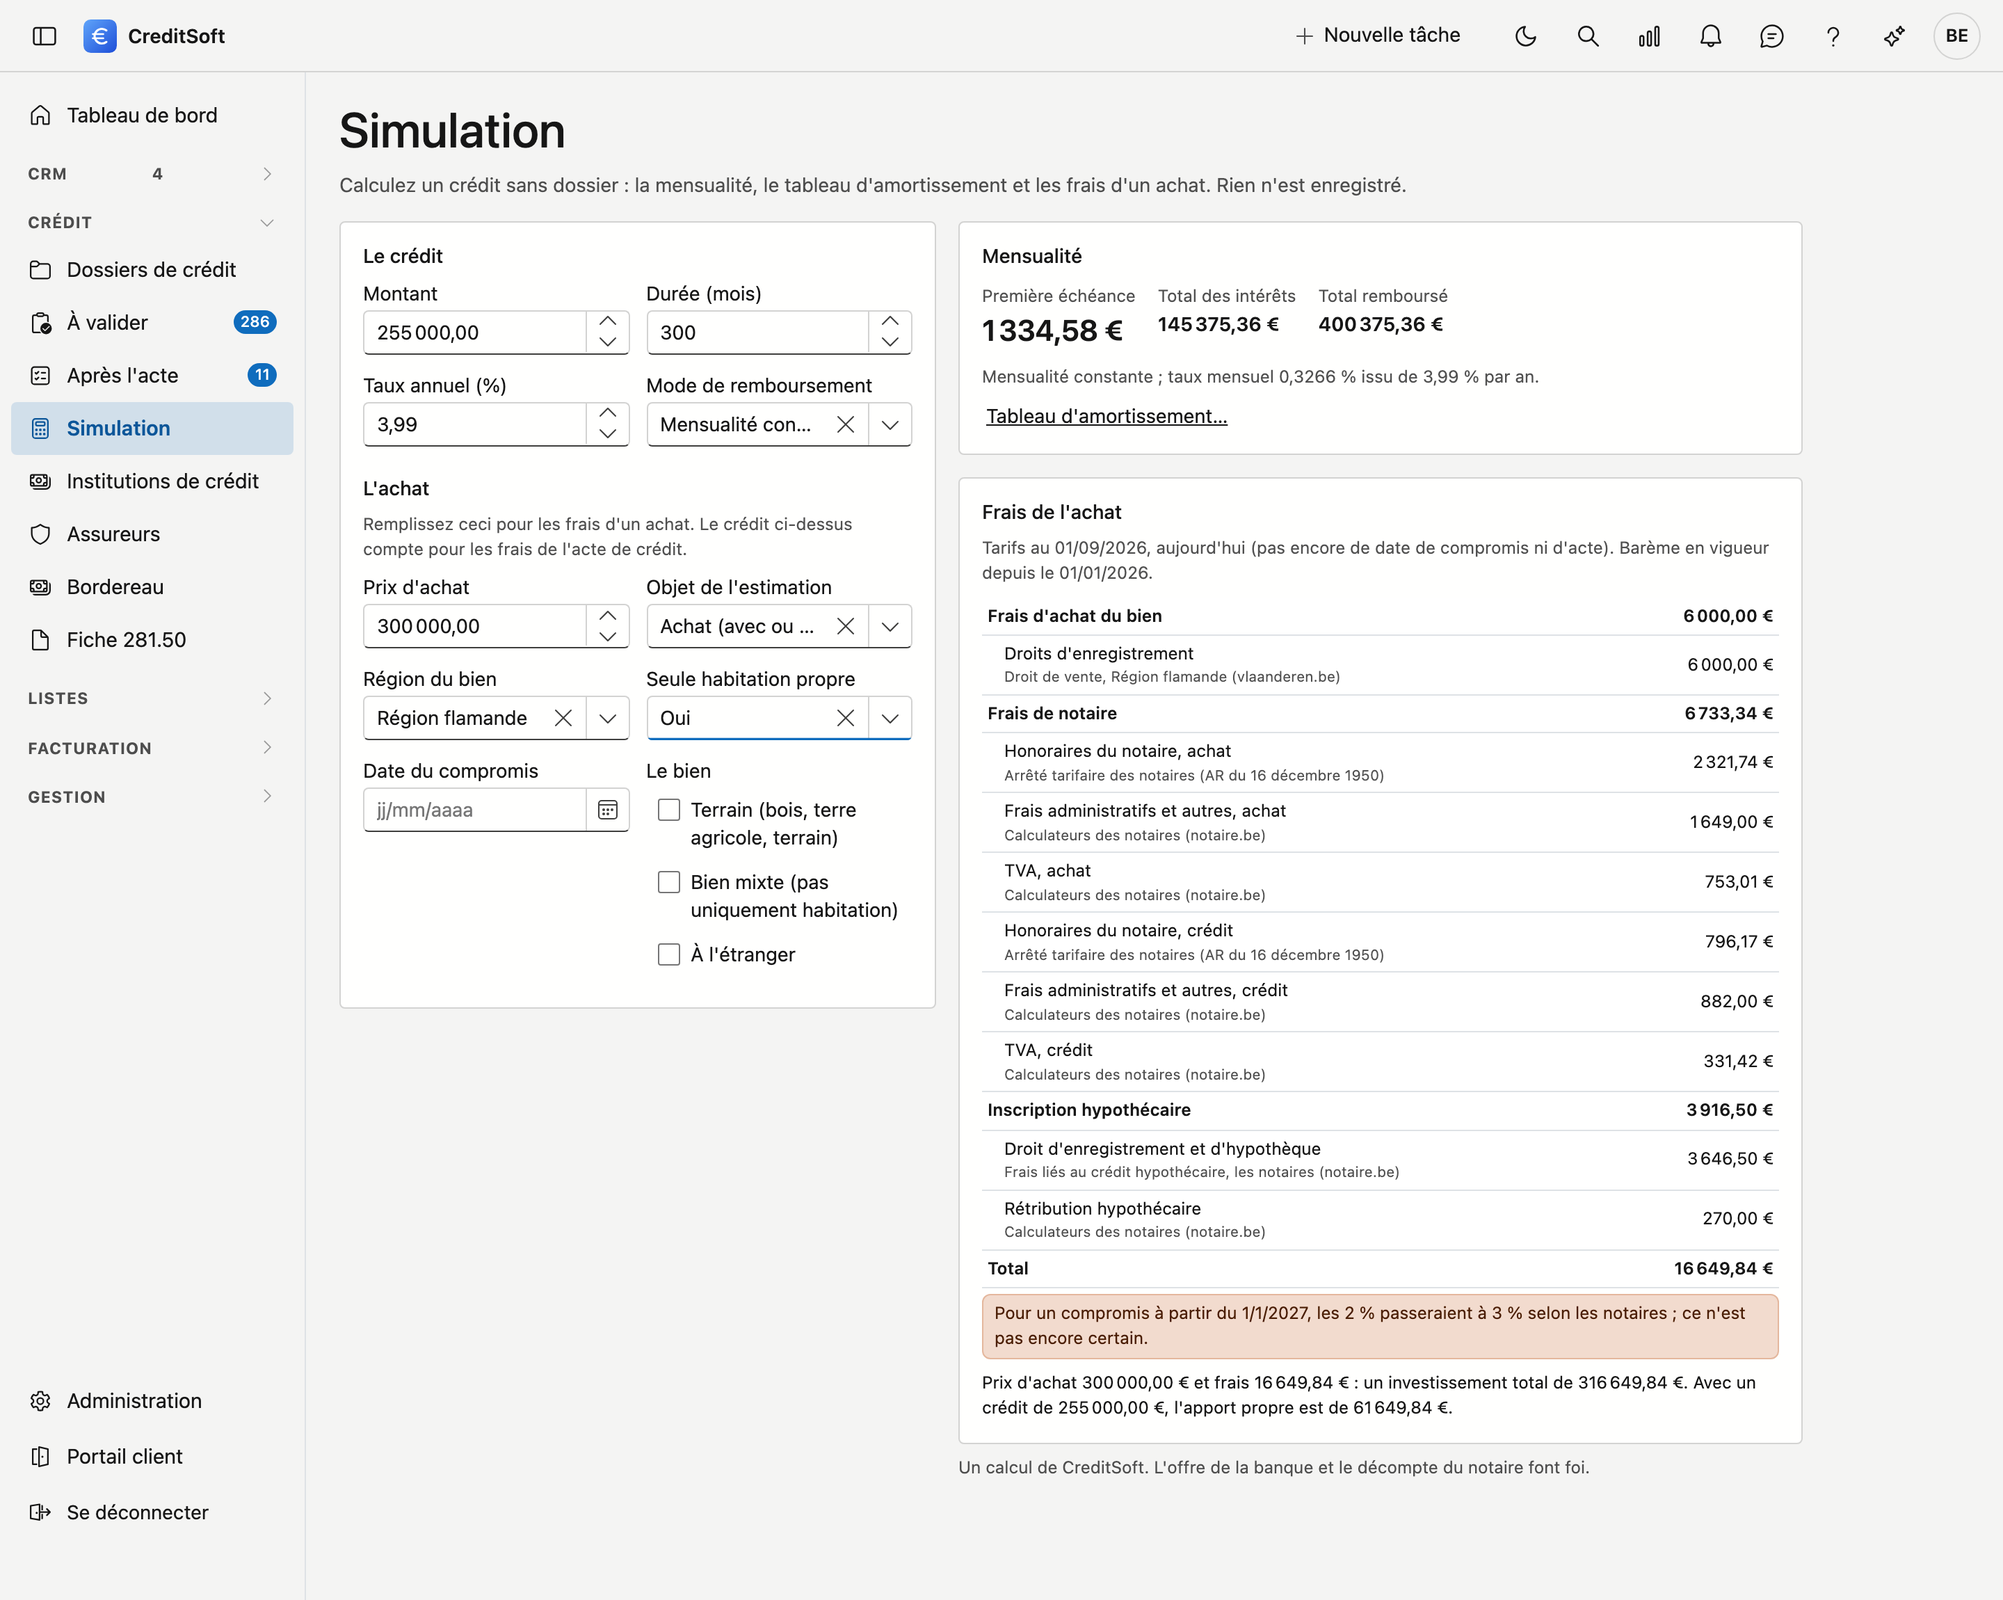
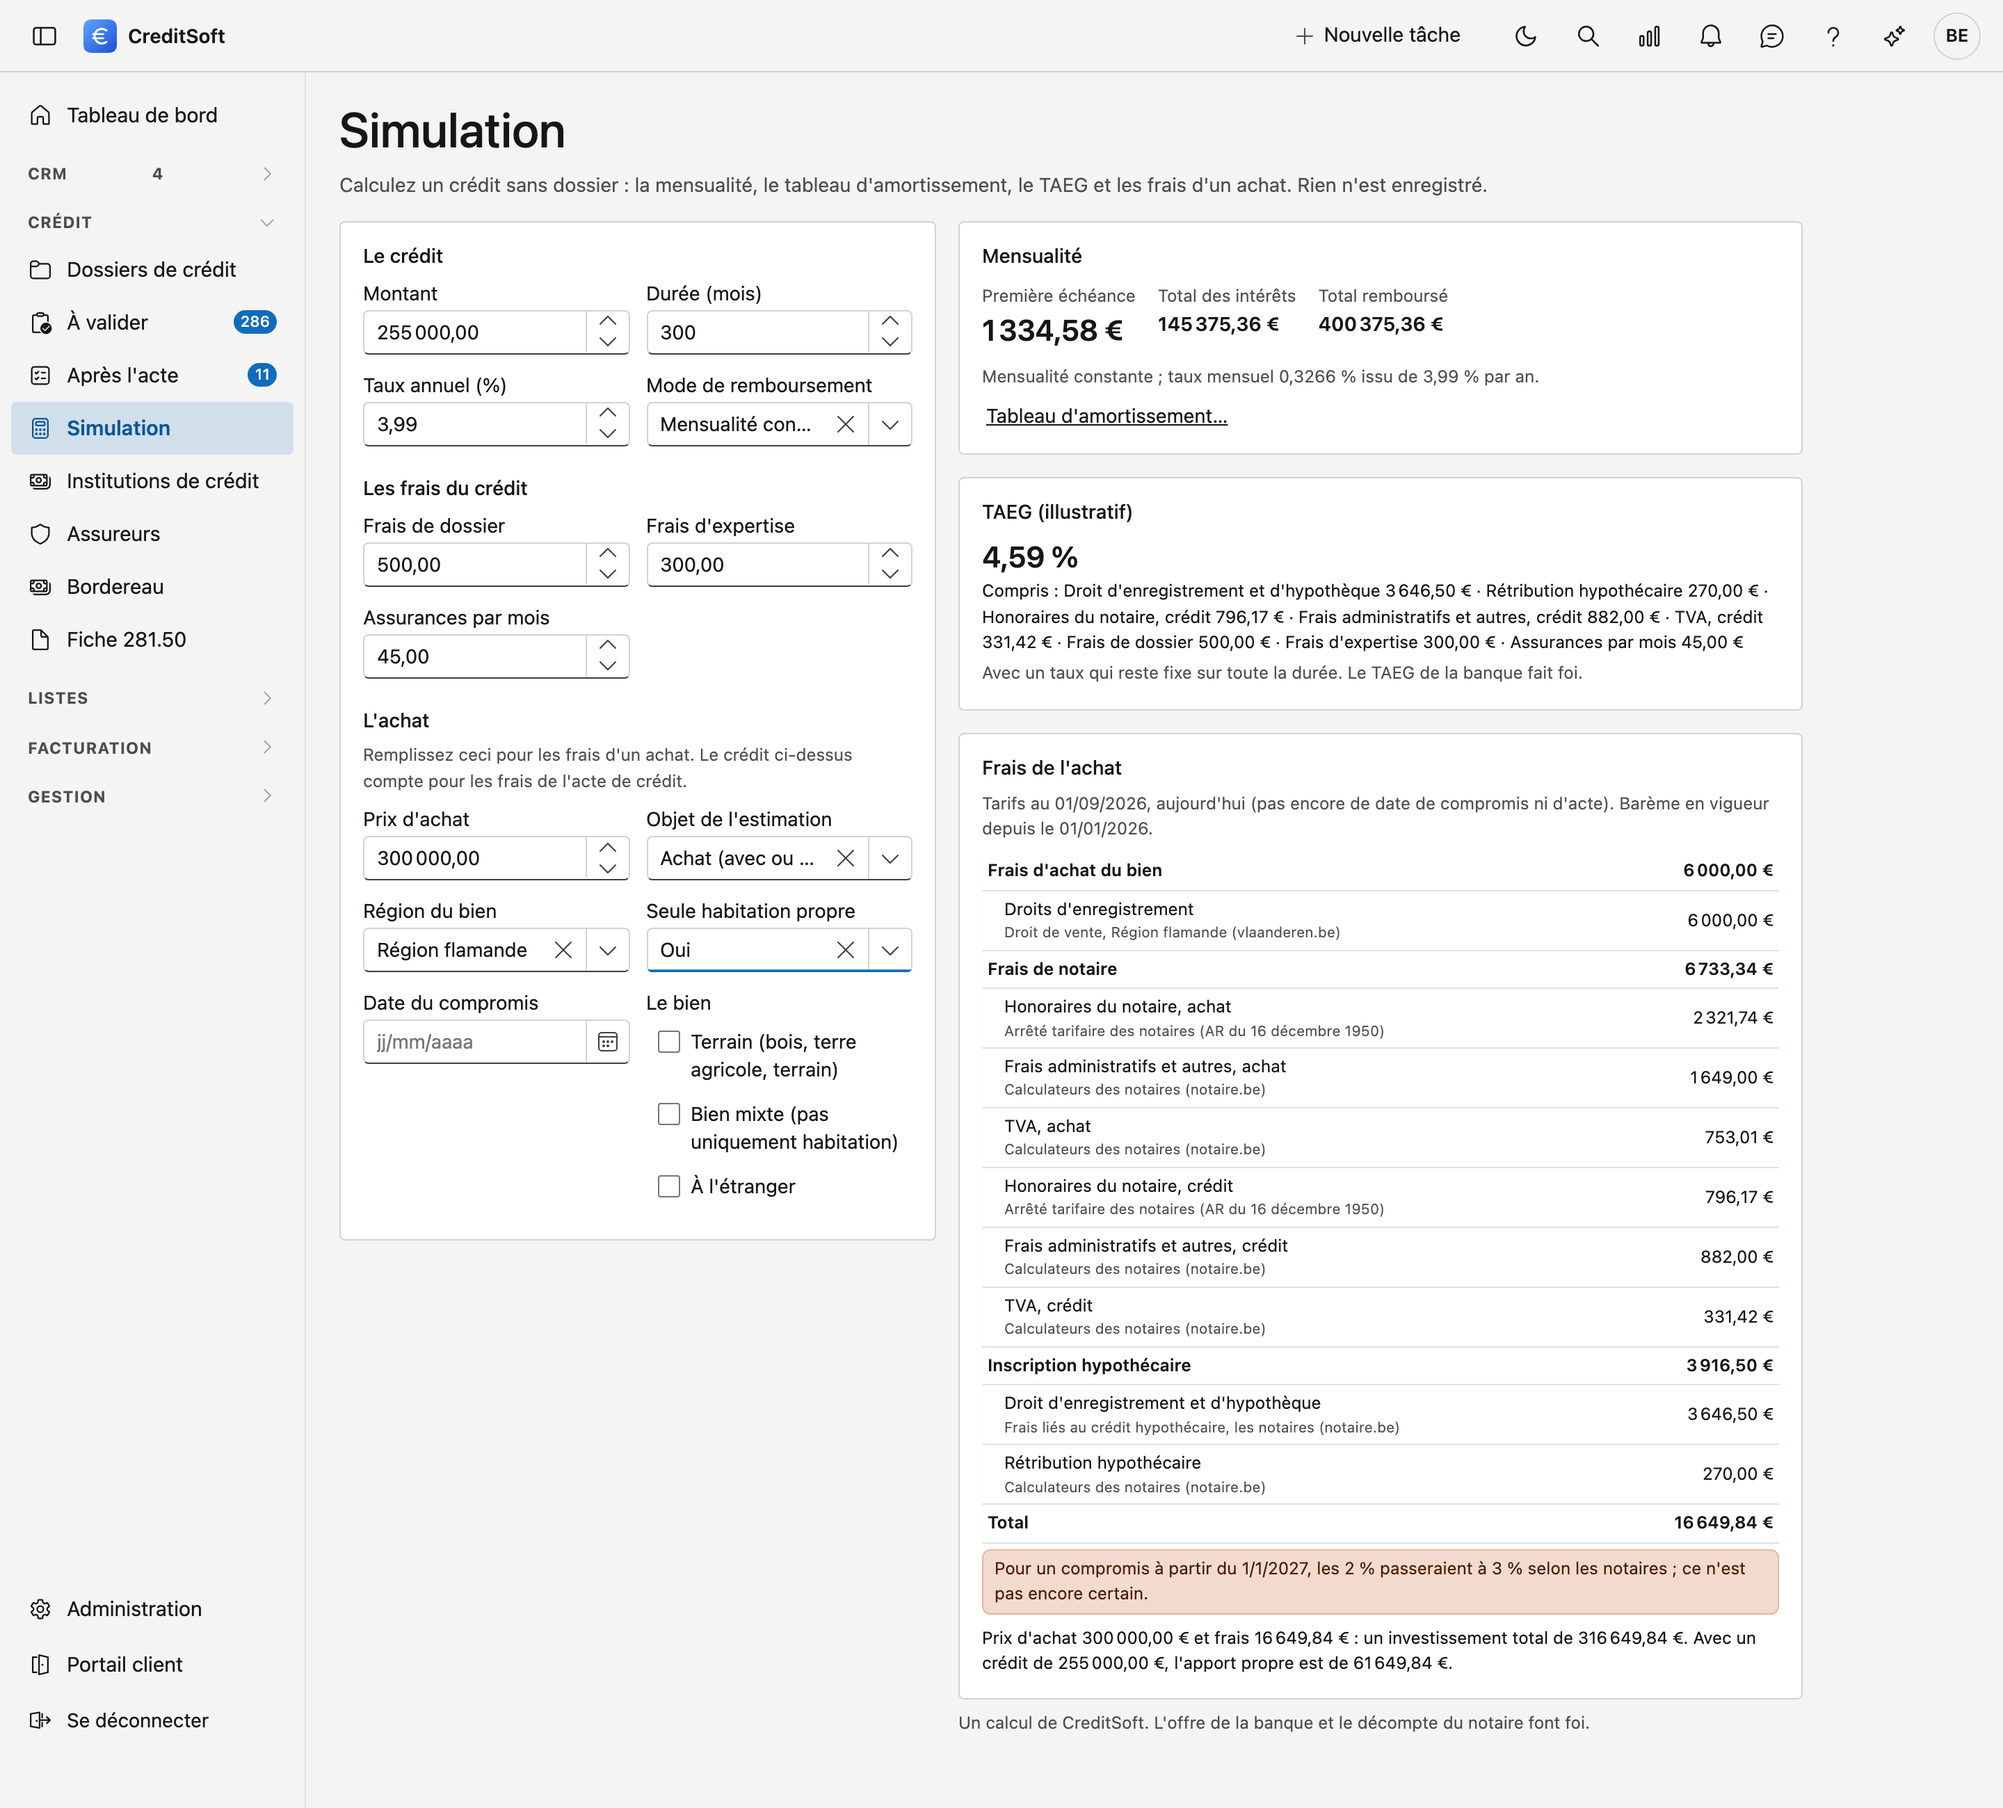
Handleiding 1.217.0: het JKP in de simulatie
NL en FR: een sectie Het JKP / Le TAEG (welke kosten meetellen, de
kredietakte uit de raming, een leeg veld telt niet als nul, vaste rente).
Beeld simulatie(-fr) opnieuw, met de kosten en het JKP; hoogte 1150 -> 1300,
want de zin over de investering schoof onder de rand. Het recept meet nu
dat die zin IN het venster staat (tegenproef op 1150: geweigerd, 55 px).
Uitslag-sha rechtgezet naar de worktree-commit 8aaf519a.

diff --git a/docs/credit-management/simulation.fr.md b/docs/credit-management/simulation.fr.md
@@ -1,6 +1,6 @@
 # Simulation
 
-Avec la simulation, vous calculez un crédit sans dossier : la mensualité, le tableau d'amortissement et les frais d'un achat.
+Avec la simulation, vous calculez un crédit sans dossier : la mensualité, le tableau d'amortissement, le TAEG et les frais d'un achat.
 Pratique lors d'un premier entretien, quand il n'y a pas encore de dossier. Rien n'est enregistré.
 
 ## Ouvrir l'écran
@@ -8,7 +8,7 @@ Pratique lors d'un premier entretien, quand il n'y a pas encore de dossier. Rien
 Dans le menu de gauche, cliquez sur **Simulation**, sous *Crédit*. Toute personne qui peut consulter les dossiers de crédit
 peut calculer.
 
-![La page Simulation. À gauche, la saisie : le crédit avec le montant, la durée en mois, le taux annuel et le mode de remboursement, puis l'achat avec le prix d'achat, l'objet de l'estimation, la région, la seule habitation propre, la date du compromis et trois cases pour le bien. À droite, la mensualité avec la première échéance, le total des intérêts et le total remboursé, et le bouton Tableau d'amortissement. En dessous, les frais de l'achat, par champ avec les postes et leur origine, le total, et une phrase avec l'investissement total et l'apport propre.](../images/simulatie-fr.png "Calculer un crédit sans dossier"){ .volle-breedte }
+![La page Simulation. À gauche, la saisie : le crédit avec le montant, la durée en mois, le taux annuel et le mode de remboursement, ensuite les frais du crédit avec les frais de dossier, les frais d'expertise et les assurances par mois, et en bas l'achat avec le prix d'achat, l'objet de l'estimation, la région, la seule habitation propre, la date du compromis et trois cases pour le bien. À droite, la mensualité avec la première échéance, le total des intérêts et le total remboursé, et le bouton Tableau d'amortissement. En dessous, le TAEG (illustratif) avec le pourcentage et les frais compris, avec leur montant. Puis les frais de l'achat, par champ avec les postes et leur origine, le total, et une phrase avec l'investissement total et l'apport propre.](../images/simulatie-fr.png "Calculer un crédit sans dossier"){ .volle-breedte }
 
 ## Le crédit
 
@@ -42,11 +42,32 @@ l'**inscription hypothécaire**, comme dans la [fiche d'investissement](credit-f
 Le montant du crédit ci-dessus compte pour les frais de l'acte de crédit. Si l'estimation est complète, la page affiche
 aussi l'**investissement total** (prix d'achat plus frais) et l'**apport propre** nécessaire.
 
+## Le TAEG
+
+Sous la mensualité, la page affiche le **TAEG**, le taux annuel effectif global : le taux et les frais du crédit ensemble, en
+un seul pourcentage par an. Saisissez pour cela sous *Les frais du crédit* :
+
+- les **frais de dossier** de la banque ;
+- les **frais d'expertise** ;
+- les **assurances par mois** que la banque demande, comme l'assurance solde restant dû et une assurance incendie
+  obligatoire.
+
+Si l'achat est rempli, CreditSoft compte aussi les frais de l'**acte de crédit** de l'estimation : les honoraires, les frais
+administratifs et la TVA du notaire pour le crédit, le droit d'enregistrement et d'hypothèque et la rétribution hypothécaire.
+Les frais de l'achat lui-même, comme les droits d'enregistrement, ne comptent jamais dans le TAEG.
+
+Sous le pourcentage figure ce qui est compris, avec le montant. Ce qui manque figure sous **Non compris** : un frais que
+vous laissez vide ne compte pas en silence pour zéro. S'il n'y a vraiment pas de frais, saisissez 0. Sans aucun frais, le
+TAEG est égal au taux.
+
+Le TAEG calcule avec un taux qui reste fixe sur toute la durée.
+
 ## Erreurs fréquentes
 
 !!! warning "Une simulation n'est pas une offre"
-    Les montants sont un calcul de CreditSoft. L'offre de la banque et le décompte du notaire font foi. La simulation
-    n'enregistre rien : si vous voulez continuer, créez un [dossier de crédit](credit-files.md).
+    Les montants sont un calcul de CreditSoft. L'offre de la banque et le décompte du notaire font foi, de même que le
+    TAEG de la banque : ne reprenez pas le TAEG de la simulation dans une offre. La simulation n'enregistre rien : si vous
+    voulez continuer, créez un [dossier de crédit](credit-files.md).
 
 ## Voir aussi
 

diff --git a/docs/credit-management/simulation.md b/docs/credit-management/simulation.md
@@ -1,13 +1,13 @@
 # Simulatie
 
-Met de simulatie rekent u een krediet door zonder dossier: de maandlast, de aflossingstabel en de kosten van een aankoop.
+Met de simulatie rekent u een krediet door zonder dossier: de maandlast, de aflossingstabel, het JKP en de kosten van een aankoop.
 Handig in een eerste gesprek, wanneer er nog geen dossier is. Er wordt niets bewaard.
 
 ## Het scherm openen
 
 Klik in het menu links op **Simulatie**, onder *Krediet*. Iedereen die kredietdossiers mag bekijken, kan rekenen.
 
-![De pagina Simulatie. Links de invoer: het krediet met bedrag, looptijd in maanden, rentevoet per jaar en aflossingswijze, en daaronder de aankoop met aankoopprijs, doel van de raming, gewest, enige eigen woning, datum compromis en drie vinkjes voor het pand. Rechts de maandlast met de eerste termijn, de totale rente en het totaal terugbetaald, en de knop Aflossingstabel. Daaronder de kosten van de aankoop, per veld met de posten en hun bron, het totaal, en een zin met de totale investering en de eigen inbreng.](../images/simulatie.png "Een krediet doorrekenen zonder dossier"){ .volle-breedte }
+![De pagina Simulatie. Links de invoer: het krediet met bedrag, looptijd in maanden, rentevoet per jaar en aflossingswijze, daaronder de kosten van het krediet met dossierkosten, schattingskosten en verzekeringen per maand, en onderaan de aankoop met aankoopprijs, doel van de raming, gewest, enige eigen woning, datum compromis en drie vinkjes voor het pand. Rechts de maandlast met de eerste termijn, de totale rente en het totaal terugbetaald, en de knop Aflossingstabel. Daaronder het JKP (illustratief) met het percentage en de kosten die meetellen, met hun bedrag. Dan de kosten van de aankoop, per veld met de posten en hun bron, het totaal, en een zin met de totale investering en de eigen inbreng.](../images/simulatie.png "Een krediet doorrekenen zonder dossier"){ .volle-breedte }
 
 ## Het krediet
 
@@ -40,11 +40,30 @@ Vult u ook de aankoop in, dan raamt CreditSoft de **registratierechten**, de **n
 Het bedrag van het krediet hierboven telt mee voor de kosten van de kredietakte. Is de raming volledig, dan toont de pagina
 ook de **totale investering** (aankoopprijs plus kosten) en de **eigen inbreng** die daarbij nodig is.
 
+## Het JKP
+
+Onder de maandlast toont de pagina het **JKP**, het jaarlijkse kostenpercentage: de rente en de kosten van het krediet samen,
+als één percentage per jaar. Vul daarvoor onder *De kosten van het krediet* in:
+
+- de **dossierkosten** van de bank;
+- de **schattingskosten**;
+- de **verzekeringen per maand** die de bank vraagt, zoals de schuldsaldoverzekering en een verplichte brandverzekering.
+
+Is de aankoop ingevuld, dan telt CreditSoft ook de kosten van de **kredietakte** uit de raming mee: het ereloon, de
+administratie en de btw van de notaris voor het krediet, het registratie- en hypotheekrecht en de hypothecaire retributie.
+De kosten van de aankoop zelf, zoals de registratierechten, tellen nooit mee in het JKP.
+
+Onder het percentage staat wat meetelt, met het bedrag. Wat ontbreekt, staat onder **Niet meegeteld**: een kost die u leeg
+laat, telt niet stil als nul. Is er echt geen kost, vul dan 0 in. Zonder enige kost is het JKP gelijk aan de rentevoet.
+
+Het JKP rekent met een rentevoet die vast blijft over de hele looptijd.
+
 ## Veelgemaakte fouten
 
 !!! warning "Een simulatie is geen aanbod"
-    De bedragen zijn een berekening van CreditSoft. Het aanbod van de bank en de afrekening van de notaris gelden. De
-    simulatie bewaart niets: wilt u ermee verder, maak dan een [kredietdossier](credit-files.md) aan.
+    De bedragen zijn een berekening van CreditSoft. Het aanbod van de bank en de afrekening van de notaris gelden, en ook
+    het JKP van de bank: neem het JKP van de simulatie niet over in een aanbieding. De simulatie bewaart niets: wilt u
+    ermee verder, maak dan een [kredietdossier](credit-files.md) aan.
 
 ## Zie ook
 
